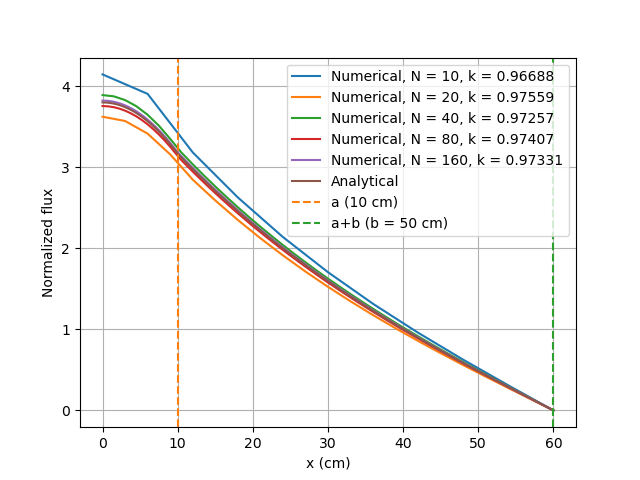
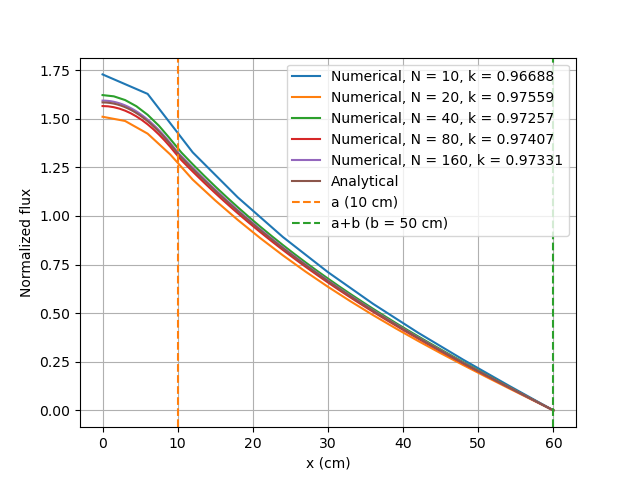
fixed normalization to be by neutron production

diff --git a/cp1/main.tex b/cp1/main.tex
@@ -8,7 +8,7 @@
 % \itshape TA: Shaffer Bauer \\
 % \itshape TA: Justin Jia \\
 }
-\date{March 24th, 2026}
+\date{March 25th, 2026}
 
 \usepackage[
     style=ieee
@@ -650,14 +650,14 @@ for instance, we could use this condition as reflector thickness $b$ approaches 
     \label{eq:min-a}
     B\tan(Ba_{min}) = \frac{D_2}{D_1L_2}
 \end{equation}
-which, for the given material parameters, evaluates to 23.505~cm.
+which, for the given material parameters, evaluates to $a=23.505$~cm.
 Likewise, the critical $a$ for a system with \emph{no} shielding would indicate the maximum thickness of the multiplying layer, above which no matter how little reflection was added, the reactor would be supercritical.
 While Eq.~\ref{eq:crit-ab} is not itself defined at $b=0$, the same result may be analogously found by applying the (extrapolation-ignored extrapolated) vacuum boundary condition directly to $x=a$ in this scenario:
 \begin{equation}
     \label{eq:max-a}
-    \phi_1(a)=0=\cos\left(Ba\right) 
+    \phi_1(a)=0=C_2\cos\left(Ba_{max}\right) 
 \end{equation}
-which, for the given material parameters, evaluates to 46.852~cm.\\
+which, for the given material parameters (and any non-trivial solution), evaluates to $a=46.852$~cm.\\
 
 Using Eq.~\ref{eq:crit-ab}, the reflector thickness $b$ required for several given lengths of $a$ to form critical reactors are calculated and tabulated in Table~\ref{tab:bvals} (where possible).
 
@@ -684,7 +684,7 @@ with $\left[-\ddx D\ddx\phi\right]_i$ and shorthand terms $\dL{i}$ and $\dR{i}$ 
     -d_L\phi_{i-1} + \left(d_L+d_R+\Sigma_{a,i}\right)\phi_i - d_R\phi_{i+1} = \frac{1}{k}\nu\Sigma_{f,i}\phi_i
 \end{equation}
 For the boundary nodes $\phi_0$ and $\phi_N$, the same boundary conditions as in Eqs.~\ref{eq:sym-findiff} and \ref{eq:vac-findiff} may be applied.
-Together, these yield a matrix equation similar to \ref{eq:prob2-matrix}
+Together, these yield a matrix equation similar to \ref{eq:prob2-matrix}:
 
 \begin{equation}
     \label{eq:prob3-matrix}
@@ -735,9 +735,9 @@ This equation is true for any (eigenvector) distribution of flux $\phi$ which is
     \end{gathered}
 \end{equation}
 where the integral evaluations for $k_{n+1}$ are carried out using a numerical integral process such as a trapezoidal Reimann sum.
-To maintain consistent scales of $\phi$, after every iteration the distribution is then normalized using a similar integral evaluation of power, to normalize power to 1:
+To maintain consistent scales of $\phi$, after every iteration the distribution is then normalized using a similar integral evaluation of neutron production, to normalize production to 1:
 \begin{gather}
-    P=\int_{0}^{a+b}\Sigma_{f}\phi dx\\
+    P=\int_{0}^{a+b}\nu\Sigma_{f}\phi dx\\
     \phi = \frac{\phi}{P}
 \end{gather}
 \\

diff --git a/cp1/Strong_Owen_CP1_Q3.py b/cp1/Strong_Owen_CP1_Q3.py
@@ -63,12 +63,12 @@ def err(actual, target):
     diff = actual-target
     return np.linalg.norm(diff) / np.linalg.norm(target)
 
-def Rf(phi: np.ndarray, Xf:np.ndarray, h):
+def Rf(phi: np.ndarray, Xf:np.ndarray, nu, h):
     '''
-    For given flux and fission cross section find fission reaction rate
+    For given flux and fission cross section find neutron production rate
     Uses trapezoidal integration across x of phi and cross section
     '''
-    Rf = sum([0.5*(phi[i-1]*Xf[i-1]+phi[i]*Xf[i])*h for i in range(1,len(Xf))])
+    Rf = sum([0.5*(phi[i-1]*nu*Xf[i-1]+phi[i]*nu*Xf[i])*h for i in range(1,len(Xf))])
     return Rf
 def trapz(dist: np.ndarray, h):
     return sum([0.5*(dist[i-1]+dist[i])*h for i in range(len(dist))])
@@ -94,7 +94,7 @@ def powit_kPhi(M:np.ndarray, F:np.ndarray, h:float, Xf:np.ndarray|None=None, deb
 
         nphi = iM @ (F @ lphi) / lk
         # print(f"nphi: {nphi.shape}")
-        rrate = Rf(nphi, Xf, h) if not Xf is None else la.norm(nphi, 1)*h
+        rrate = Rf(nphi, Xf, nu, h) if not Xf is None else la.norm(nphi, 1)*h
         nphi /= rrate
         # nk = la.norm((F@nphi)[1:N], 1) / la.norm((M@nphi)[1:N], 1)
         nk = trapz(F@nphi, h) / trapz(M@nphi, h)
@@ -134,7 +134,7 @@ def xPhi_an(av, bv, k):
 
     B = ((nu*Xf1/k - Xa1)/D1)**0.5
 
-    unscl_Rf = (Xf1*np.sin(B*av)/B)
+    unscl_Rf = (nu*Xf1*np.sin(B*av)/B)
     C1 = 1  / unscl_Rf
     C2 = C1* np.cos(B*av) / (np.sinh(-bv/L2))
 
